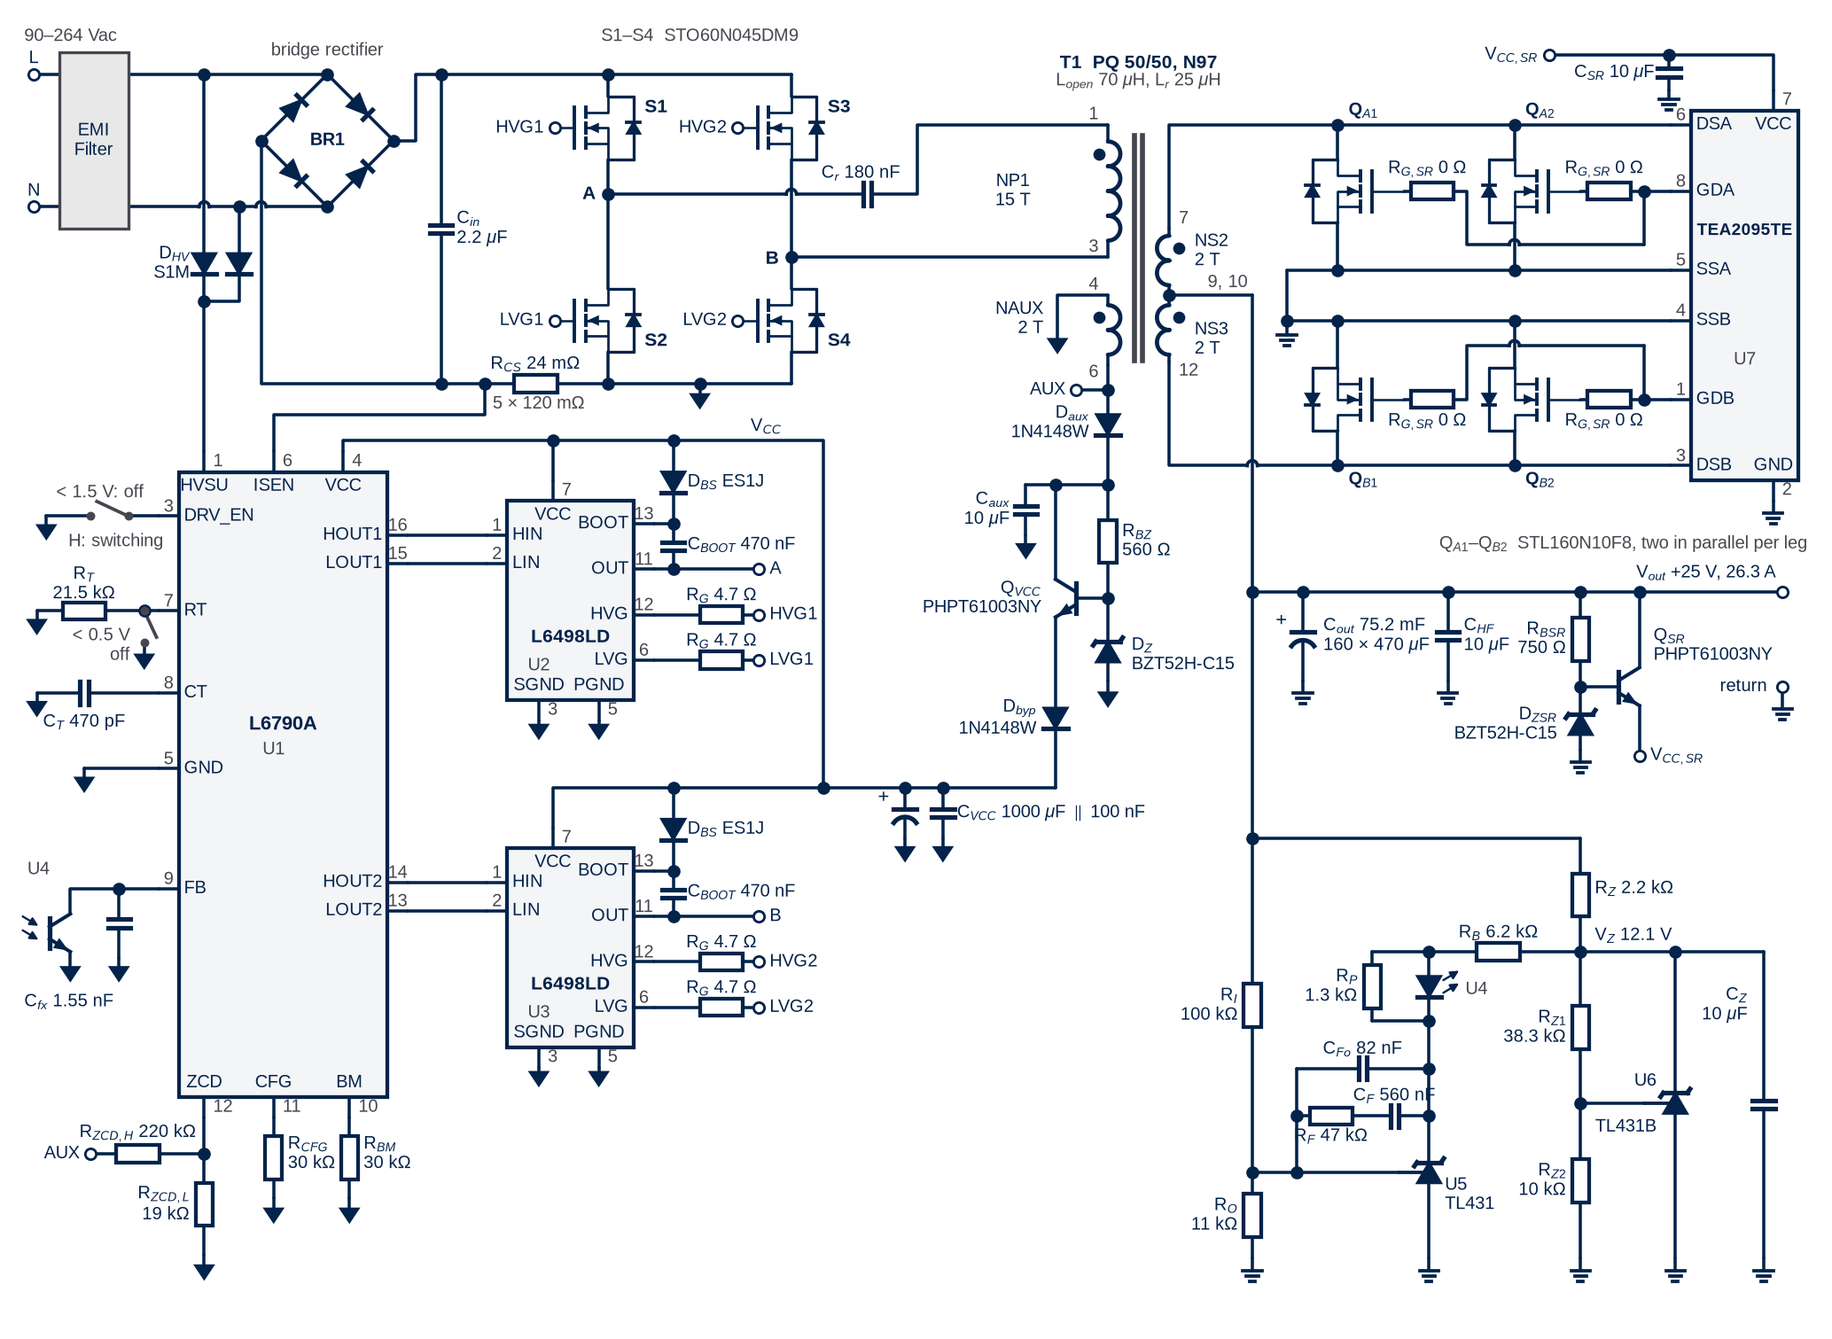
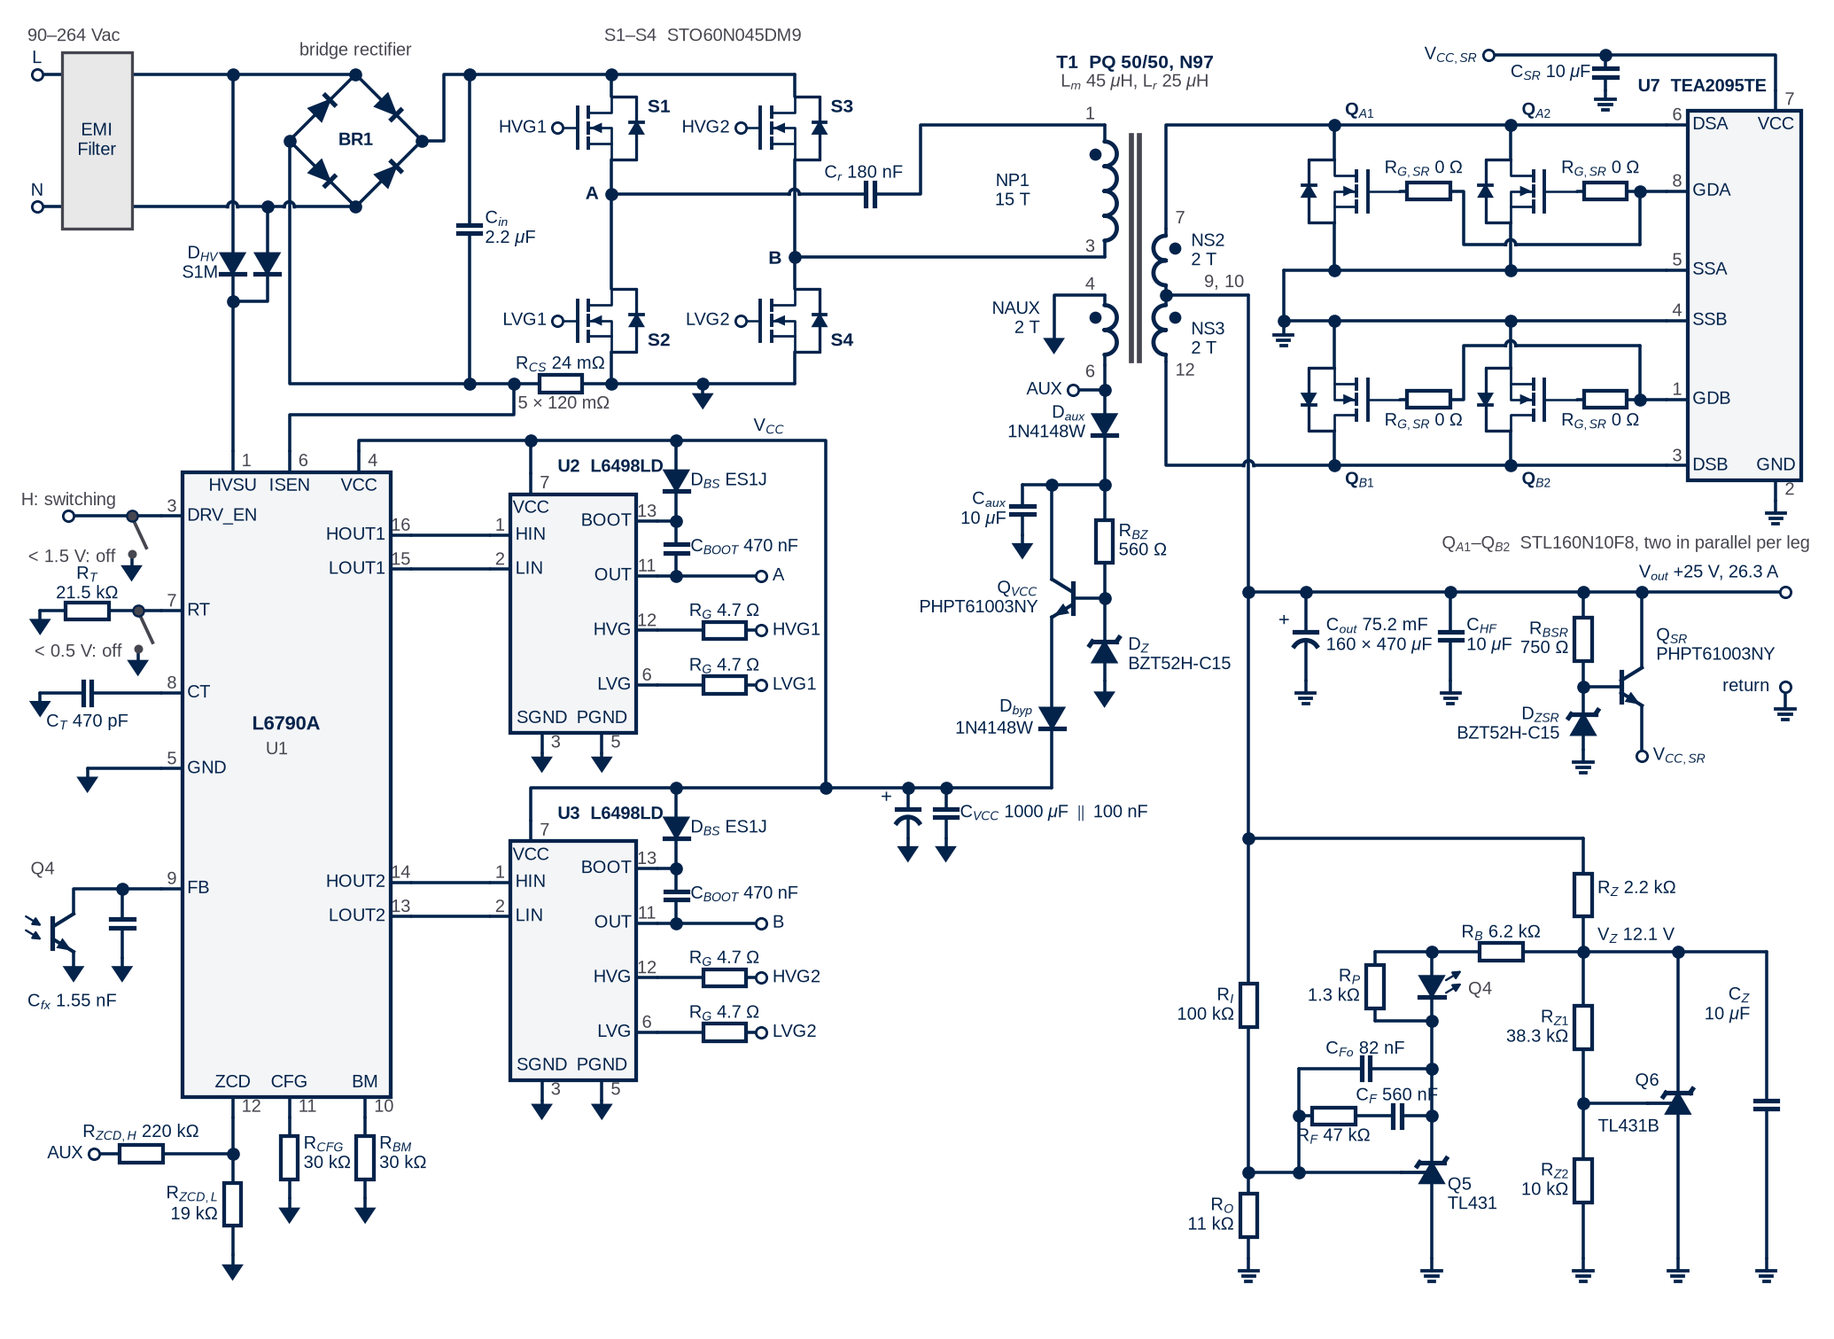
Round 84 (in progress): full schematic — L_m/L_r caption, IC names outside the boxes, HVSU pin in from the edge, one pull-down switch form, Q4/Q5/Q6, drivers 20 % taller
Claude-Session: https://claude.ai/code/session_01L3H8Na8buSZY2uPpuuSkn7

diff --git a/Design Guide/generators/figs_ref.py b/Design Guide/generators/figs_ref.py
@@ -3380,7 +3380,7 @@ def an_dc_overlap(save, foot):
 
 # ------------------------------------------------- gate drive and SR (81)
 def _ic(ax, x0, y0, x1, y1, part, pins, stub=0.55, size=9.6, psize=8.4,
-        ref=None, tsize=10.5, tpad=0.30):
+        ref=None, tsize=10.5, tpad=0.30, title=True):
     """An IC as a box with numbered pins.  -> {pin name: wire end point}
 
     pins: (side, position, number, name).  side is 'L', 'R', 'T' or 'B';
@@ -3392,8 +3392,9 @@ def _ic(ax, x0, y0, x1, y1, part, pins, stub=0.55, size=9.6, psize=8.4,
     ax.add_patch(Rectangle((x0, y0), x1 - x0, y1 - y0, fc='#F4F5F7', ec=NAVY,
                            lw=1.8, zorder=3))
     cx = (x0 + x1) / 2.0
-    S.label(ax, cx, (y0 + y1) / 2.0 if ref is None else ref, part, size=tsize,
-            weight='bold')
+    if title:
+        S.label(ax, cx, (y0 + y1) / 2.0 if ref is None else ref, part,
+                size=tsize, weight='bold')
     k = X.scale(ax)
     st = stub * k
     out = {}
@@ -4054,7 +4055,7 @@ def an_full_pri(save, foot):
                                      (0.18, y_ - 1.6 + dy), arrowstyle='-|>',
                                      mutation_scale=9, color=NAVY, lw=1.2,
                                      zorder=5, shrinkA=0, shrinkB=0))
-    S.label(ax, -0.3, y_ + 1.05, 'U4, LED on sheet 2', size=8.4,
+    S.label(ax, -0.3, y_ + 1.05, 'Q4, LED on sheet 2', size=8.4,
             color=GREY, ha='left')
     # BM and CFG to ground, ZCD from the auxiliary winding
     for pin, xr_, key, nm in (('BM', 10.2, 'R.BM_sel', 'R$_{BM}$'),
@@ -4294,7 +4295,7 @@ def an_full_sec(save, foot):
     S.wire(ax, [(XRI, YREF), tr])
     S.wire(ax, [ta, (XK, YG)])
     S.dot(ax, XK, YG)
-    S.label(ax, XK + 0.6, YREF - 0.55, 'U5  TL431', size=8.8, ha='left')
+    S.label(ax, XK + 0.6, YREF - 0.55, 'Q5  TL431', size=8.8, ha='left')
     # compensation between REF and K
     XL_, YF1, YF2 = 11.8, 5.6, 4.4
     S.wire(ax, [(XL_, YREF), (XL_, YF1)])
@@ -4329,7 +4330,7 @@ def an_full_sec(save, foot):
                                      arrowstyle='-|>', mutation_scale=9,
                                      color=NAVY, lw=1.2, zorder=5,
                                      shrinkA=0, shrinkB=0))
-    S.label(ax, XK + 1.25, ym - 0.1, 'U4 LED', size=8.6, ha='left',
+    S.label(ax, XK + 1.25, ym - 0.1, 'Q4 LED', size=8.6, ha='left',
             color=GREY)
     XP = XK - 1.7
     S.wire(ax, [(XK, YLA), (XP, YLA)])
@@ -4475,8 +4476,8 @@ def an_full(save, foot):
     S.label(ax, 0.1, 40.6, '%.0f–%.0f Vac' % (V['Vacmin'], V['Vacmax']),
             size=SN, ha='left', color=GREY)
     S.box(ax, 2.3, 37.3, 2.2, 5.6, 'EMI\nFilter', size=SN)
-    XH1, XH2 = 5.8, 6.9                   # the two HVSU diodes
-    XBm, YBm, BH = 9.7, 37.3, 2.1         # BR1, a diamond: ac top and bottom
+    XH1, XH2 = 6.6, 7.7                   # the two HVSU diodes
+    XBm, YBm, BH = 10.5, 37.3, 2.1        # BR1, a diamond: ac top and bottom
     BT, BB = (XBm, YBm + BH), (XBm, YBm - BH)
     BM_, BP = (XBm - BH, YBm), (XBm + BH, YBm)
     S.wire(ax, [(3.4, YL), BT])
@@ -4498,11 +4499,11 @@ def an_full(save, foot):
     a2, k2 = S.diode(ax, XH2, 33.4, horiz=False, flip=True)
     S.wire(ax, [(XH1, YL), a1])
     S.wire(ax, [(XH2, YN), a2])
-    YJ, XHV = 32.2, 5.8                   # the join, and U1's HVSU column
+    YJ, XHV = 32.2, 6.6                   # the join, and U1's HVSU column
     S.wire(ax, [k2, (XH2, YJ), (XH1, YJ)])
     S.dot(ax, XH1, YJ)
     S.label(ax, XH1 - 0.45, 33.4, 'D$_{HV}$\nS1M', size=SN, ha='right')
-    XP, XCI, XM = 12.5, 13.3, 14.7
+    XP, XCI, XM = 13.3, 14.1, 15.5
     X1, X2 = 18.6, 24.4                   # the two bridge legs
     S.wire(ax, [BP, (XP, YBm), (XP, YL), (X2, YL)])
     S.wire(ax, [BM_, (BM_[0], YG), (X2, YG)])
@@ -4513,10 +4514,10 @@ def an_full(save, foot):
             size=SZ, ha='left')
     S.dot(ax, XM, YG)
     # R_CS sits in the return: drawn over the wire already laid on YG
-    ra, rb = S.res(ax, 16.3, YG)
-    S.label(ax, 16.3, YG + 0.6, 'R$_{CS}$ %.0f m$\\Omega$' % _sv('R.CS'),
+    ra, rb = S.res(ax, 17.0, YG)
+    S.label(ax, 17.0, YG + 0.6, 'R$_{CS}$ %.0f m$\\Omega$' % _sv('R.CS'),
             size=SZ)
-    S.label(ax, 16.4, YG - 0.65, '%.0f × %.0f m$\\Omega$'
+    S.label(ax, 17.1, YG - 0.65, '%.0f × %.0f m$\\Omega$'
             % (_sv('N.RCS'), _sv('R.CS_single')), size=SN, color=GREY)
     S.dot(ax, 21.5, YG)
     pg(21.5, YG)
@@ -4553,7 +4554,7 @@ def an_full(save, foot):
             ha='right')
 
     # ================================================= T1
-    XC = 35.4                              # T1: the line between the sides
+    XC = 35.2                              # T1: the line between the sides
     YT1 = 37.8                             # pin 1
     YS7 = 34.5                             # pin 7: NS2 + NS3 centred between
     #                                        the two SR drain buses (37.8, YG)
@@ -4579,8 +4580,8 @@ def an_full(save, foot):
     S.label(ax, xs + 0.3, s12[1] - 0.3, str(_pm['NS3'][1][0]), size=SN,
             color=GREY, ha='left')
     S.label(ax, XC, 39.75, 'T1  PQ 50/50, N97', size=9.0, weight='bold')
-    S.label(ax, XC, 39.15, 'L$_{open}$ %.0f $\\mu$H, L$_r$ %.0f $\\mu$H'
-            % (_sv('L.open'), _sv('L.short')), size=SN, color=GREY)
+    S.label(ax, XC, 39.15, 'L$_m$ %.0f $\\mu$H, L$_r$ %.0f $\\mu$H'
+            % (_sv('L.m'), _sv('L.r')), size=SN, color=GREY)
     S.label(ax, (XCN + xw) / 2.0, 35.7, 'NP1\n%.0f T' % _sv('N.p'), size=SN)
     S.label(ax, xs + 0.8, YS7 - 0.7, 'NS2\n%.0f T' % _sv('N.s'), size=SN,
             ha='left')
@@ -4606,12 +4607,12 @@ def an_full(save, foot):
 
     # ================================================= controller U1
     U1 = _ic(ax, 5.0, 7.0, 11.6, 26.8, 'L6790A',
-             [('T', XHV, 1, 'HVSU'), ('T', 8.0, 6, 'ISEN'),
-              ('T', 10.2, 4, 'VCC'),
-              ('R', 24.8, 16, 'HOUT1'), ('R', 23.9, 15, 'LOUT1'),
-              ('R', 13.8, 14, 'HOUT2'), ('R', 12.9, 13, 'LOUT2'),
-              ('B', XHV, 12, 'ZCD'), ('B', 8.0, 11, 'CFG'),
-              ('B', 10.4, 10, 'BM'),
+             [('T', XHV, 1, 'HVSU'), ('T', 8.4, 6, 'ISEN'),
+              ('T', 10.6, 4, 'VCC'),
+              ('R', 24.8, 16, 'HOUT1'), ('R', 23.72, 15, 'LOUT1'),
+              ('R', 13.8, 14, 'HOUT2'), ('R', 12.72, 13, 'LOUT2'),
+              ('B', XHV, 12, 'ZCD'), ('B', 8.4, 11, 'CFG'),
+              ('B', 10.8, 10, 'BM'),
               ('L', 25.4, 3, 'DRV_EN'), ('L', 22.4, 7, 'RT'),
               ('L', 19.8, 8, 'CT'), ('L', 17.4, 5, 'GND'),
               ('L', 13.6, 9, 'FB')], ref=18.8, size=SN, psize=SN,
@@ -4621,26 +4622,27 @@ def an_full(save, foot):
     YIS = 28.6
     S.wire(ax, [(XM, YG), (XM, YIS), (U1['ISEN'][0], YIS), U1['ISEN']])
     # DRV_EN: high while the bridge switches; pulled low it disables the IC
+    #  the pin's net runs out to a terminal; on the way a grey switch
+    #  (not fitted) hangs off it to ground - what would disable the IC
+    def pulldown(x_, y_, xsw, note):
+        S.dot(ax, xsw, y_)
+        switch(xsw, y_, xsw, y_ - 1.2, lean=1)
+        pg(xsw, y_ - 1.2, 0.4)
+        S.label(ax, xsw - 0.5, y_ - 1.3, note, size=SN, color=GREY,
+                ha='right')
     x_, y_ = U1['DRV_EN']
-    S.wire(ax, [(x_, y_), (3.4, y_)])
-    switch(3.4, y_, 2.2, y_)
-    S.wire(ax, [(2.2, y_), (0.8, y_)])
-    pg(0.8, y_, 0.3)
-    S.label(ax, 2.5, y_ + 0.75, '< 1.5 V: off', size=SN, color=GREY)
-    S.label(ax, 3.0, y_ - 0.8, 'H: switching', size=SN, color=GREY)
-    # RT: R_T to ground, and the same switch on the pin node
+    S.wire(ax, [(x_, y_), (1.4, y_)])
+    _term(ax, 1.4, y_, MS)
+    S.label(ax, 1.4, y_ + 0.5, 'H: switching', size=SN, color=GREY)
+    pulldown(x_, y_, 3.4, '< 1.5 V: off')
+    # RT: R_T to ground, the same switch on the pin node
     x_, y_ = U1['RT']
     a_, b_ = S.res(ax, 2.0, y_)
     S.wire(ax, [(x_, y_), b_])
     S.wire(ax, [a_, (0.5, y_)])
     pg(0.5, y_, 0.3)
-    XRS = 3.9
-    S.dot(ax, XRS, y_)
-    switch(XRS, y_, XRS, y_ - 1.0, lean=1)
-    pg(XRS, y_ - 1.0, 0.4)
+    pulldown(x_, y_, 3.6, '< 0.5 V: off')
     S.label(ax, 2.0, y_ + 0.85, 'R$_T$\n' + _r(_sv('R.T') * 1e3), size=SZ)
-    S.label(ax, XRS - 0.45, y_ - 1.1, '< 0.5 V\noff', size=SN, color=GREY,
-            ha='right')
     x_, y_ = U1['CT']
     a_, b_ = S.cap(ax, 2.0, y_)
     S.wire(ax, [(x_, y_), b_])
@@ -4668,7 +4670,7 @@ def an_full(save, foot):
                                      (0.55, y_ - 1.4 + dy), arrowstyle='-|>',
                                      mutation_scale=8, color=NAVY, lw=1.0,
                                      zorder=5, shrinkA=0, shrinkB=0))
-    S.label(ax, 0.2, y_ + 0.6, 'U4', size=SN, ha='left', color=GREY)
+    S.label(ax, 0.2, y_ + 0.6, 'Q4', size=SN, ha='left', color=GREY)
     # ZCD from AUX through a divider; CFG and BM to ground
     zx, zy = U1['ZCD']
     YZN = 5.2
@@ -4691,18 +4693,20 @@ def an_full(save, foot):
 
     # ================================================= drivers U2, U3
     YV, XO, YO = 27.8, 25.4, 16.8
-    W_, H_ = 4.0, 6.3                      # 0.9 x the first drawing, as is
+    W_, H_ = 4.0, 7.56                     # 0.9 x the first drawing's width,
+    #                                        1.2 x its height and pin pitch
     XD = 15.4                              # everything hung off the box
 
     def driver(x0, y0, nm, leg):
         u = _ic(ax, x0, y0, x0 + W_, y0 + H_, 'L6498LD',
-                [('L', y0 + 5.22, 1, 'HIN'), ('L', y0 + 4.32, 2, 'LIN'),
-                 ('T', x0 + 1.44, 7, 'VCC'),
+                [('L', y0 + 6.26, 1, 'HIN'), ('L', y0 + 5.18, 2, 'LIN'),
+                 ('T', x0 + 0.65, 7, 'VCC'),
                  ('B', x0 + 1.0, 3, 'SGND'), ('B', x0 + 2.9, 5, 'PGND'),
-                 ('R', y0 + 5.58, 13, 'BOOT'), ('R', y0 + 4.14, 11, 'OUT'),
-                 ('R', y0 + 2.7, 12, 'HVG'), ('R', y0 + 1.26, 6, 'LVG')],
-                ref=y0 + 1.98, size=SN, psize=SN, tsize=9.0, tpad=0.45)
-        S.label(ax, x0 + 1.0, y0 + 1.08, nm, size=SN, color=GREY)
+                 ('R', y0 + 6.70, 13, 'BOOT'), ('R', y0 + 4.97, 11, 'OUT'),
+                 ('R', y0 + 3.24, 12, 'HVG'), ('R', y0 + 1.51, 6, 'LVG')],
+                size=SN, psize=SN, tpad=0.45, title=False)
+        S.label(ax, x0 + 1.5, y0 + H_ + 0.85, nm + '  L6498LD', size=SN,
+                weight='bold', ha='left')
         for pin in ('SGND', 'PGND'):
             gx, gy = u[pin]
             pg(gx, gy, 0.15)
@@ -4729,8 +4733,8 @@ def an_full(save, foot):
             flag(xf, yy, nmg + leg)
             S.label(ax, xr, yy + 0.6, 'R$_G$ ' + _r(_sv('R.G')), size=SN)
         return u, xb, by
-    u2, xb2, by2 = driver(XD, 19.58, 'U2', '1')   # HIN level with HOUT1
-    u3, xb3, by3 = driver(XD, 8.58, 'U3', '2')
+    u2, xb2, by2 = driver(XD, 18.54, 'U2', '1')   # HIN level with HOUT1
+    u3, xb3, by3 = driver(XD, 7.54, 'U3', '2')
     for a_, b_ in ((U1['HOUT1'], u2['HIN']), (U1['LOUT1'], u2['LIN']),
                    (U1['HOUT2'], u3['HIN']), (U1['LOUT2'], u3['LIN'])):
         S.wire(ax, [a_, b_])
@@ -4799,28 +4803,29 @@ def an_full(save, foot):
     #  pins sit at the bus heights and its SS pins at the source-bus
     #  heights, so each Kelvin wire is one straight run to the nearer
     #  MOSFET (Q_A2, Q_B2).
-    XV = 39.0                              # V_out: centre tap straight down
+    XV = 38.8                              # V_out: centre tap straight down
     S.wire(ax, [(xs, YCT), (XV, YCT)])
     S.label(ax, XV - 0.15, YCT + 0.4, '%d, %d' % (_pm['NS2'][1][0],
                                                    _pm['NS3'][0][0]),
             size=SN, color=GREY, ha='right')
     YDA, YCA_, YSA, HOPA = YT1, 35.7, 33.2, 34.0
     YDB, YCB, YSB, HOPB = 27.0, 29.1, 31.6, 30.8
-    XQ1, XQ2 = 41.7, 47.3
+    XQ1, XQ2 = 41.5, 47.1
     MGS = 2.1                              # gate lead: the resistor clear
     #                                        of the gate
     MOSS = dict(MOS, gate=MGS)
     xr1, xr2 = XQ1 + MGS + 0.9, XQ2 + MGS + 0.9
     XG = xr2 + 1.1                         # where the gate run splits
-    TX0, TX1 = XG + 1.5, XG + 4.9
+    TX0, TX1 = XG + 1.5, XG + 5.1
     TY0, TY1 = YDB - 0.45, YDA + 0.45
     c = _ic(ax, TX0, TY0, TX1, TY1, 'TEA2095TE',
             [('L', YDA, 6, 'DSA'), ('L', YCA_, 8, 'GDA'),
              ('L', YSA, 5, 'SSA'), ('L', YSB, 4, 'SSB'),
              ('L', YCB, 1, 'GDB'), ('L', YDB, 3, 'DSB'),
-             ('T', XG + 4.1, 7, 'VCC'), ('B', XG + 4.1, 2, 'GND')],
-            ref=(YCA_ + YSA) / 2.0, size=SN, psize=SN, tsize=8.2, tpad=0.45)
-    S.label(ax, TX0 + 1.7, (YSB + YCB) / 2.0, 'U7', size=SN, color=GREY)
+             ('T', TX1 - 0.8, 7, 'VCC'), ('B', TX1 - 0.8, 2, 'GND')],
+            size=SN, psize=SN, tpad=0.45, title=False)
+    S.label(ax, TX1 - 1.1, TY1 + 0.75, 'U7  TEA2095TE', size=SN,
+            weight='bold', ha='right')
     gx_, gy_ = c['GND']
     S.wire(ax, [(gx_, gy_), (gx_, gy_ - 0.4)])
     sg(gx_, gy_ - 0.4, 0.0)
@@ -4828,7 +4833,7 @@ def an_full(save, foot):
     #  flag, C_SR hanging off that run
     vx, vy = c['VCC']
     YVS = 40.0
-    XSR, XFL = TX0 - 0.7, XG - 3.0
+    XSR, XFL = TX0 - 2.6, XG - 4.8
     S.wire(ax, [(vx, vy), (vx, YVS), (XFL, YVS)])
     S.dot(ax, XSR, YVS)
     vcap(XSR, YVS, 38.9)
@@ -4949,7 +4954,7 @@ def an_full(save, foot):
     S.dot(ax, XL_, YREF)
     S.wire(ax, [ta, (XK, YGR)])
     sg(XK, YGR, 0.4)
-    S.label(ax, XK + 0.5, YREF - 0.7, 'U5\nTL431', size=SN, ha='left')
+    S.label(ax, XK + 0.5, YREF - 0.7, 'Q5\nTL431', size=SN, ha='left')
     S.wire(ax, [(XL_, YREF), (XL_, YF1)])
     S.dot(ax, XL_, YF2)
     ca, cb = S.cap(ax, 42.5, YF1)
@@ -4979,12 +4984,12 @@ def an_full(save, foot):
                                      arrowstyle='-|>', mutation_scale=8,
                                      color=NAVY, lw=1.0, zorder=5,
                                      shrinkA=0, shrinkB=0))
-    S.label(ax, XK + 1.15, ym - 0.1, 'U4', size=SN, ha='left', color=GREY)
+    S.label(ax, XK + 1.15, ym - 0.1, 'Q4', size=SN, ha='left', color=GREY)
     XPr = XK - 1.8
     S.wire(ax, [(XK, YLA), (XPr, YLA)])
     S.wire(ax, [(XK, YLC), (XPr, YLC)])
     vres(XPr, YLA, YLC, 'R$_P$\n' + _r(_sv('R.P') * 1e3), side='l')
-    # the LED rail V_Z: R_Z from V_out, U6 as a shunt regulator (16.1b)
+    # the LED rail V_Z: R_Z from V_out, Q6 as a shunt regulator (16.1b)
     XRB_, XRZ_, XU6, XCZ = 46.8, 49.4, 52.4, 55.2
     XZD = XRZ_                             # R_Z1 straight under R_Z
     S.wire(ax, [(XV, YT), (XRZ_, YT)])
@@ -5007,7 +5012,7 @@ def an_full(save, foot):
     S.wire(ax, [uc, (XU6, YLA)])
     S.wire(ax, [ua, (XU6, YGR)])
     sg(XU6, YGR, 0.4)
-    S.label(ax, XU6 - 0.6, YRZ + 0.7, 'U6', size=SN, ha='right')
+    S.label(ax, XU6 - 0.6, YRZ + 0.7, 'Q6', size=SN, ha='right')
     S.label(ax, XU6 - 0.6, YRZ - 0.75, 'TL431B', size=SN, ha='right')
     vcap(XCZ, YLA, YGR, 'C$_Z$\n' + _c(_sv('C.Z') * 1e3), side='l', yl=9.9)
     sg(XCZ, YGR, 0.4)

diff --git a/Design Guide/generators/build_l6790_smath.py b/Design Guide/generators/build_l6790_smath.py
@@ -1739,7 +1739,7 @@ S.row('- inside the window, lower check (>1):', 'k.RB_lo', 'R.B/R.B_min', None, 
 S.row('- inside the window, upper check (>1):', 'k.RB_hi', 'R.B_max/R.B', None, 3)
 
 S.h2('16.1b  The LED supply V.Z - a TL431 shunt regulator fed from V.out')
-S.note('V.out -> R.Z -> V.Z node with C.Z; a TL431 (U6) cathode on the node, '
+S.note('V.out -> R.Z -> V.Z node with C.Z; a TL431 (Q6) cathode on the node, '
        'anode to the secondary ground, REF from R.Z1 over R.Z2. The R.B window '
        'above is narrow (k.RB_lo, k.RB_hi), so the rail has to hold its value: '
        'a +-5 % Zener would move the upper bound under R.B (row r.RB_zener5).')
@@ -1761,7 +1761,7 @@ S.row('- window held over the band, lower (>1):', 'k.RBZ_lo', 'R.B/R.B_minZ',
 S.row('- the upper ratio with a +-5 % 12 V Zener instead (<1 fails):',
       'r.RB_zener5',
       "((12*'V*0.95-(V.R+V.Fo))/(V.Fo/R.P+I.FB_steady/CTR.s))/R.B", None, 3)
-S.row('- largest current R.B can draw (cathode of U5 at V.R):', 'I.RB_max',
+S.row('- largest current R.B can draw (cathode of Q5 at V.R):', 'I.RB_max',
       '(V.Z_max-V.R)/R.B', 'mA', 2)
 S.const('[DS] TL431 minimum cathode current for regulation, max.:', 'I.KA_min',
         "1*'mA", 'mA', 1, note='TI SLVS543S, VKA = Vref.')
@@ -1772,11 +1772,11 @@ S.const('[PICK] SELECTED feed resistor R.Z:', 'R.Z_sel', "2200*'ohm", 'ohm', 0)
 S.row('- R.Z margin (>1):', 'k.RZ', 'R.Z_max/R.Z_sel', None, 3)
 S.row('- R.Z dissipation at OVP1 (rating to buy):', 'P.RZ',
       '(V.OVP1_act-V.Z_min)^2/R.Z_sel', 'W', 3)
-S.row('- U6 dissipation at OVP1, LED off:', 'P.U6',
+S.row('- Q6 dissipation at OVP1, LED off:', 'P.Q6',
       'V.Z_max*((V.OVP1_act-V.Z_min)/R.Z_sel-I.Zdiv)', 'mW', 0)
-S.const('[DS] TL431 SOT-23 (DBZ) junction-to-ambient [C/W]:', 'R.thU6', '206',
+S.const('[DS] TL431 SOT-23 (DBZ) junction-to-ambient [C/W]:', 'R.thQ6', '206',
         None, 0)
-S.row('- its junction rise [C]:', 'ΔT.U6', "R.thU6*P.U6/'W", None, 0)
+S.row('- its junction rise [C]:', 'ΔT.Q6', "R.thQ6*P.Q6/'W", None, 0)
 S.const('[PICK] Capacitor on V.Z:', 'C.Z', "10*'μF", 'μF', 0,
         note='TI Fig. 6-18 (SOT-23): unstable only between about 0.01 and 2 uF '
              'at VKA 10-15 V; a 25 V X7R part stays above that under bias.')
@@ -2217,7 +2217,7 @@ S.table(['function', 'designator', 'device class and count'],
          ['SR supply pass transistor', 'Q.SR',
           '1 x PHPT61003NY, 6 cm2 collector pad - 14c.5'],
          ['SR supply Zener', 'D.ZSR', '1 x BZT52H-C15, 1 cm2 cathode pad'],
-         ['LED rail regulator', 'U6', '1 x TL431B, SOT-23 - 16.1b'],
+         ['LED rail regulator', 'Q6', '1 x TL431B, SOT-23 - 16.1b'],
          ['Feedback optocoupler', '-', '1 x, CTR binned - see 16.5'],
          ['External error amplifier', '-', '1 x, 2.5 V shunt regulator']],
         widths=[430, 260, 230])

diff --git a/Design Guide/generators/an_body.py b/Design Guide/generators/an_body.py
@@ -5177,7 +5177,7 @@ def build(A):
     add(h2('The whole circuit, with this design&rsquo;s values'))
     add(p('Figures&nbsp;%(f1)s and %(f2)s put the parts of this chapter '
           'together on two sheets, which meet at the transformer and at the '
-          'optocoupler U4. A net that continues elsewhere on its sheet '
+          'optocoupler Q4. A net that continues elsewhere on its sheet '
           'carries a flag with the name of the net. Every value printed is '
           'the value selected in the sheet. The parts that are named here '
           'for the first time are those of the V<sub>CC</sub> regulator of '
@@ -5208,7 +5208,7 @@ def build(A):
             'The whole circuit, sheet 2 of 2: the secondary side. The SR stage '
             'of Figure&nbsp;%s above, the output bank and the voltage loop '
             'below; the V<sub>out</sub> flags are one net. The transistor of '
-            'U4 is on sheet 1.' % FR('an_sr_ctrl')))
+            'Q4 is on sheet 1.' % FR('an_sr_ctrl')))
 
     # =============================================================== 8
     add(h1('List of symbols'))
